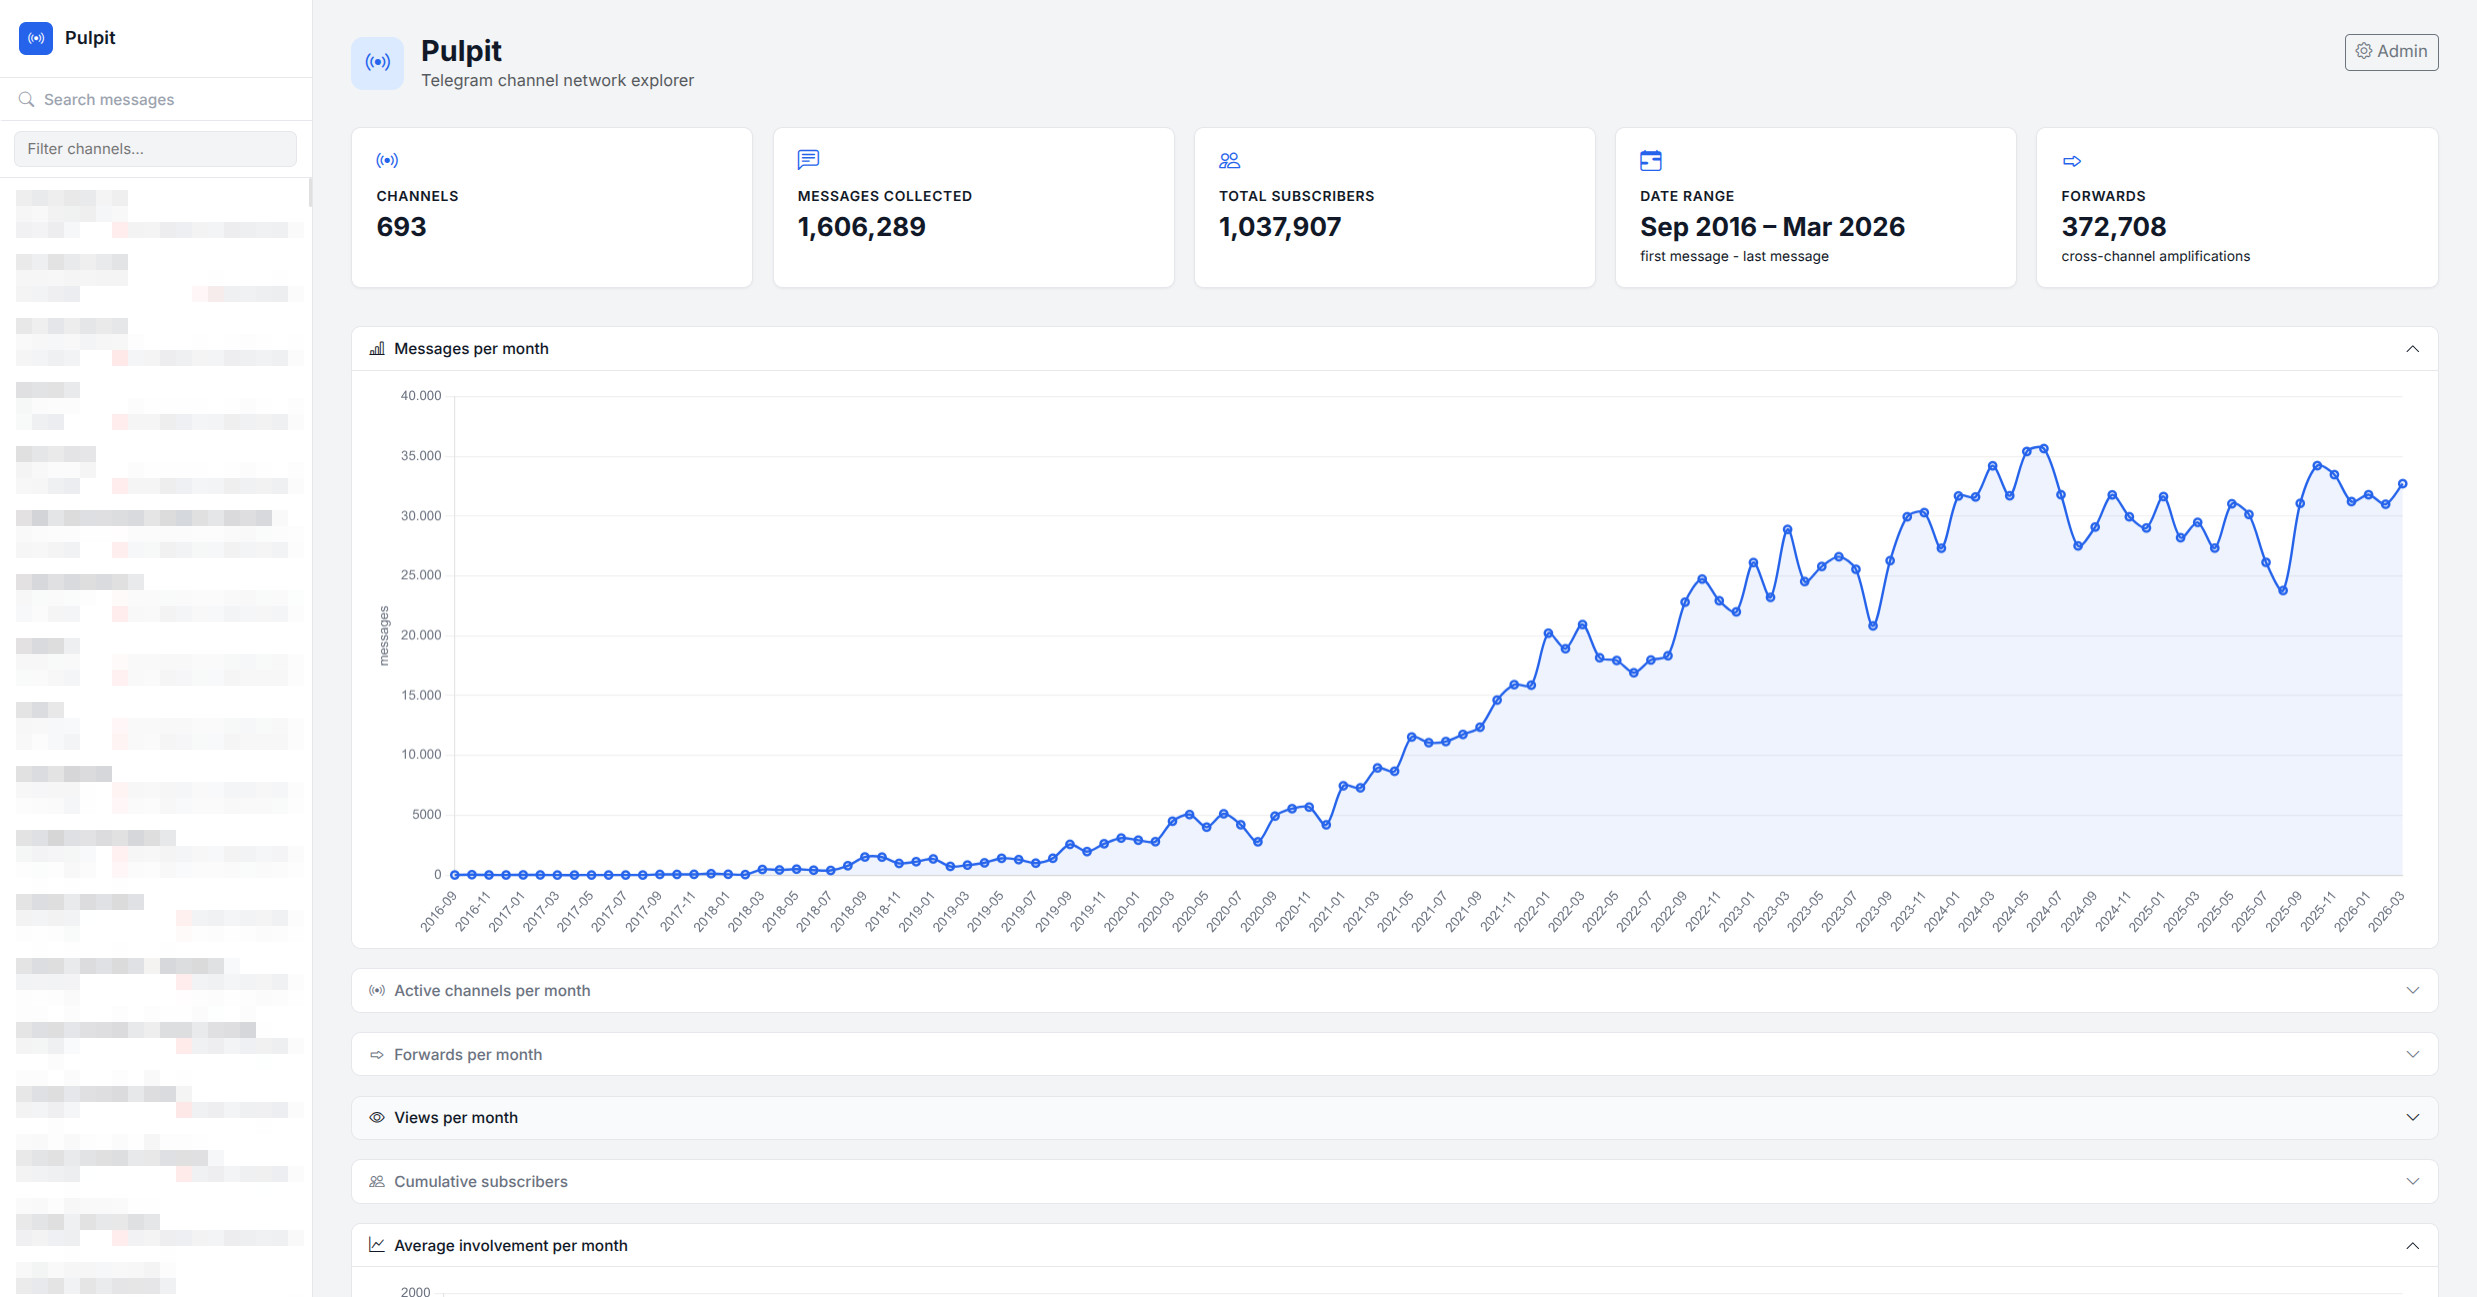
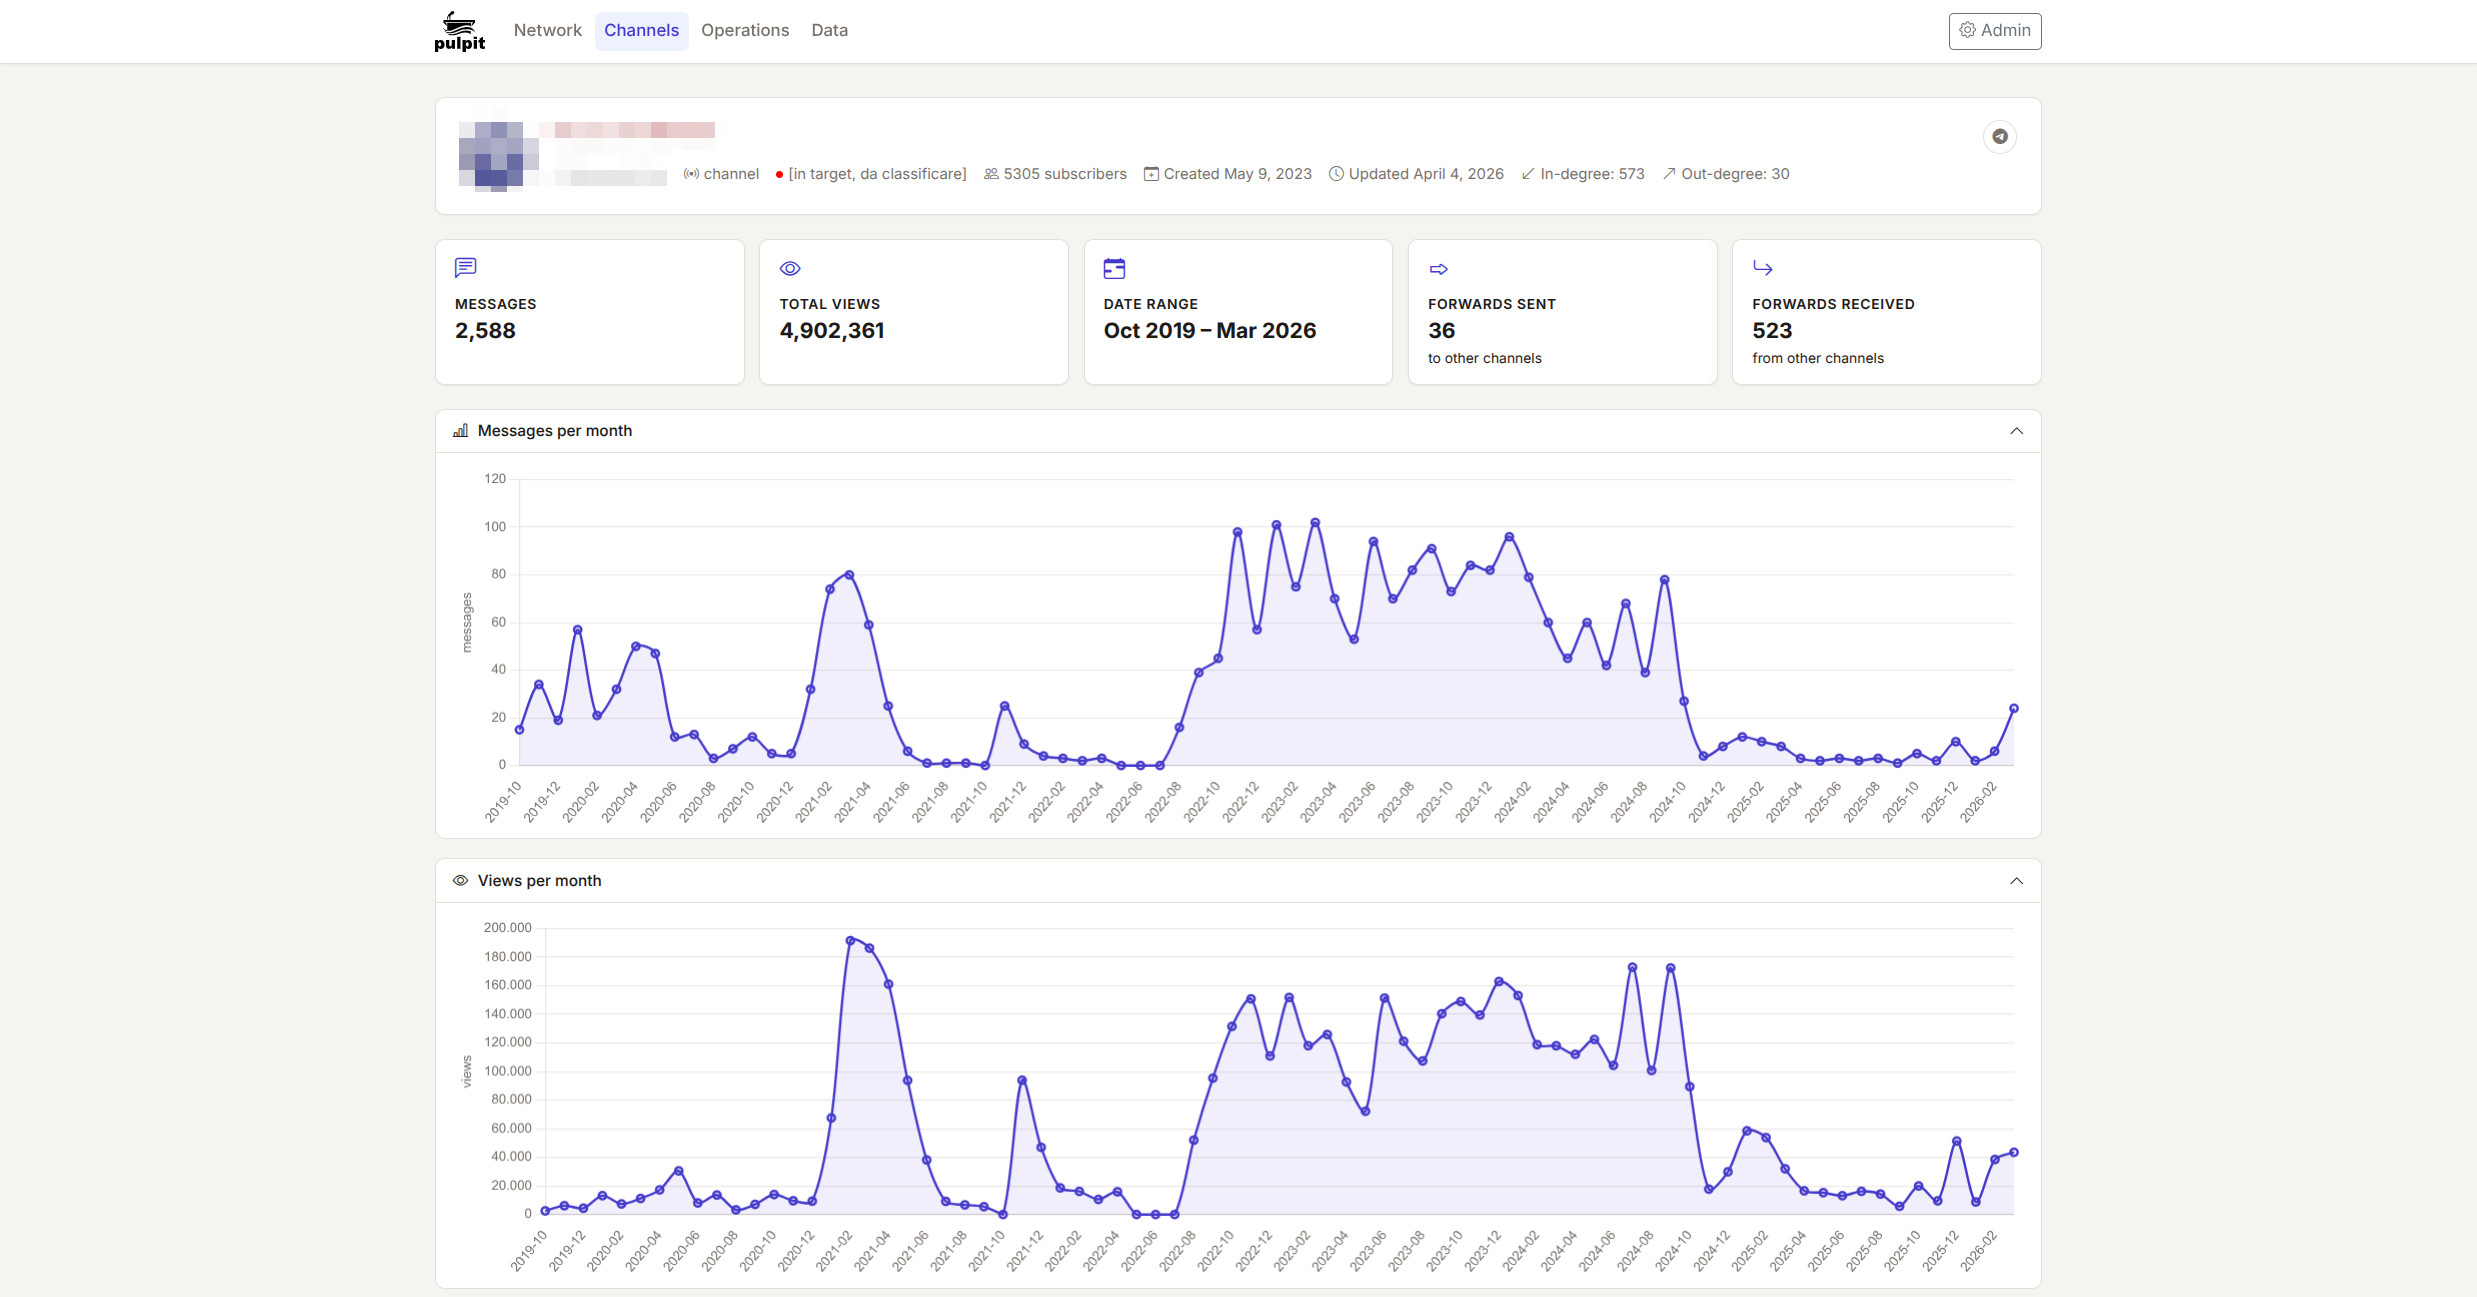
more screenshots

diff --git a/PROPOSALS.md b/PROPOSALS.md
@@ -140,10 +140,6 @@ Currently, channels are assigned to Organizations one-by-one in Django admin. Ad
 
 New Django admin view showing, for each channel: days since last crawl, message gap density (holes), whether `is_lost` is set, days since last subscriber count update. Lets operators quickly identify stale data.
 
-### 7.3 — Multiple database support (PostgreSQL)
-
-SQLite is fine for single-researcher use but breaks under concurrent writes. Add optional PostgreSQL configuration to `settings.py`. Primarily a `settings.py` + `requirements.txt` change. Enables multiple crawlers running in parallel (one per channel batch) and shared team environments.
-
 ---
 
 ## 8. Community Detection Enhancements
@@ -165,10 +161,6 @@ Composite measure combining: low content originality + high amplification + high
 ### 9.2 — Structural similarity matrix export
 
 Export a pairwise structural similarity matrix (cosine similarity of node feature vectors across all measures) as a CSV. Enables researchers to import into R or Python for further analysis — clustering, regression, ML — outside the Pulpit pipeline.
-
-### 9.3 — Reproducible research archive
-
-New `export_network --archive` flag that bundles: the `graph/` output directory, a snapshot of the `.env` configuration (with credentials stripped), a `git describe` version tag, the SQLite DB schema (not data), and a README into a ZIP file. Allows researchers to share self-contained, reproducible analysis packages.
 
 ---
 

diff --git a/SCREENSHOTS.md b/SCREENSHOTS.md
@@ -63,8 +63,8 @@ Visual samples of Pulpit output across different graph sizes, community detectio
 ## Example output, Web app
 
 <figure>
-<img src="webapp_engine/static/screenshot_10.jpg" alt="Example screen in Web app, whole network">
-<figcaption>Example screen in Web app, whole network.</figcaption>
+<img src="webapp_engine/static/screenshot_10.jpg" alt="Example screen in Web app, channel list">
+<figcaption>Example screen in Web app, channel list.</figcaption>
 </figure>
 
 <hr>
@@ -72,6 +72,21 @@ Visual samples of Pulpit output across different graph sizes, community detectio
 <figure>
 <img src="webapp_engine/static/screenshot_11.jpg" alt="Example screen in Web app, single channel">
 <figcaption>Example screen in Web app, single channel.</figcaption>
+</figure>
+
+<hr>
+
+<figure>
+<img src="webapp_engine/static/screenshot_12.jpg" alt="Example screen in Web app, single channel">
+<figcaption>Example screen in Web app, single channel.</figcaption>
+</figure>
+
+
+## Example output, Operations
+
+<figure>
+<img src="webapp_engine/static/screenshot_13.jpg" alt="Example screen in operations app">
+<figcaption>Example screen in operations.</figcaption>
 </figure>
 
 
